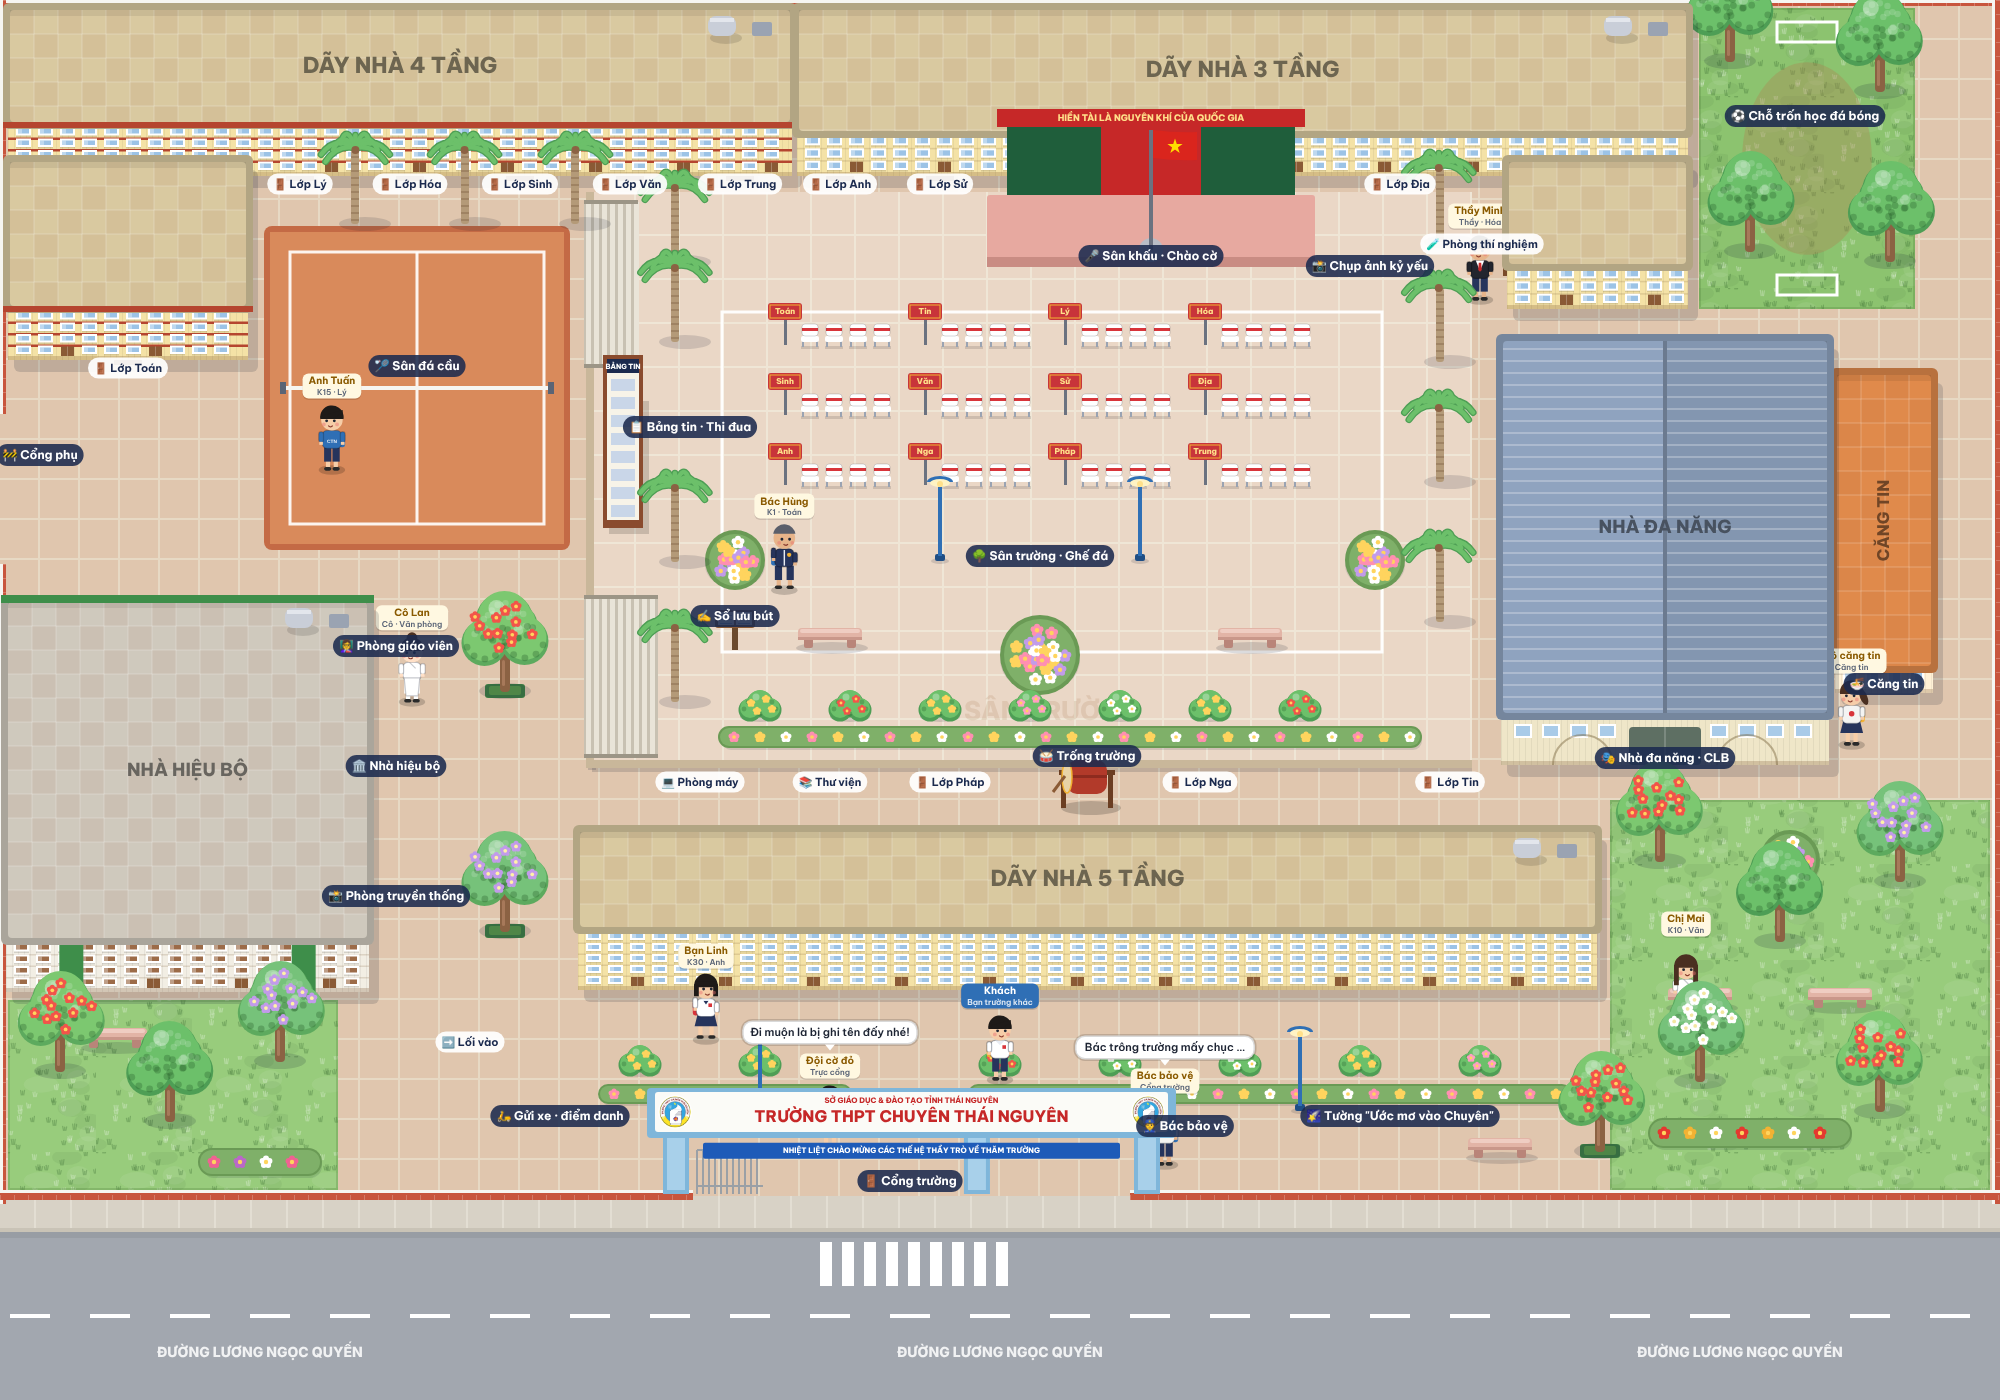
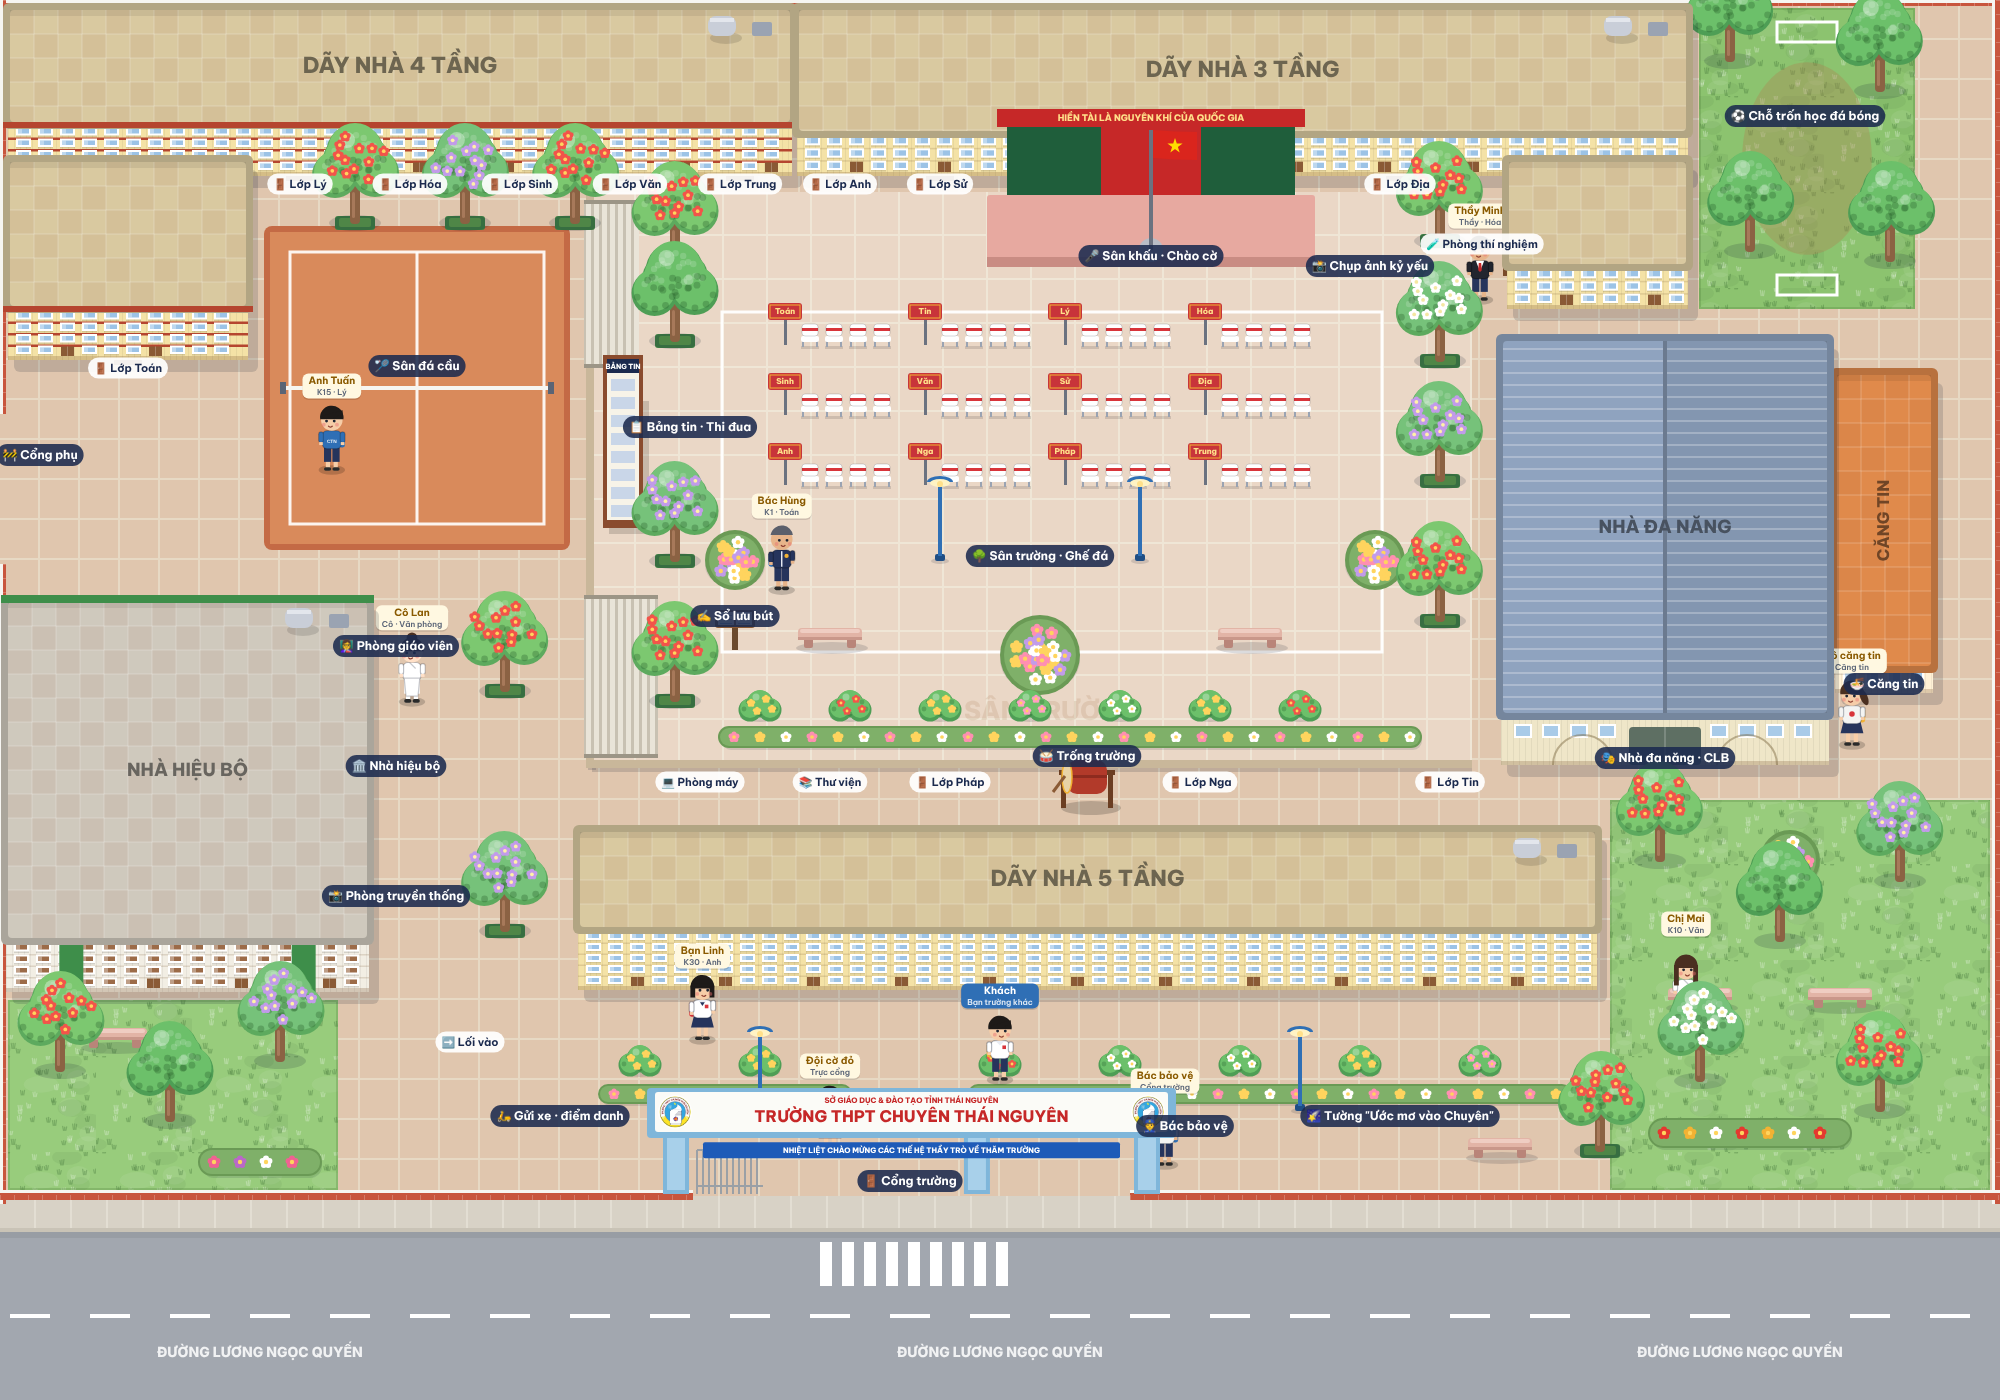
Cây trên sân trường vẽ giống cây trong vườn
Thay hàng cau vua trước dãy 4 tầng và hai bên sân trường bằng cây tán tròn
(phượng, bằng lăng, hoa sữa) có bồn gốc cây; cập nhật sơ đồ và tài liệu.

Claude-Session: https://claude.ai/code/session_01SVf8kGeQ6qEuhtfZz2rge2

diff --git a/public/js/campus.js b/public/js/campus.js
@@ -105,18 +105,19 @@ export const HOTSPOTS = [
   ...CLASS_DOORS.map((d) => ({ id: 'lop-' + d.lop, x: d.x, y: d.y, icon: '🚪', label: 'Lớp ' + d.lop, panel: 'enterClass', lop: d.lop, small: true })),
 ];
 
-// Cây cối (gốc cây là vật cản nhỏ). kind: palm (cau vua), bonsai (chậu cảnh), tree (bàng, xà cừ)
+// Cây cối (gốc cây là vật cản nhỏ). kind: tree (cây tán tròn), bonsai (bụi hoa), palm (cau vua – còn hỗ trợ vẽ)
+// bloom: cây đang ra hoa – phượng đỏ, bằng lăng tím, hoa sữa trắng; planter: có bồn quanh gốc (trên nền gạch)
 const trees = [];
-// Hàng cau vua trước dãy 4 tầng và dọc mép trái sân trường
-// cau vua đứng xen giữa các cửa lớp
-for (const x of [355, 465, 575]) trees.push({ x, y: 222, kind: 'palm' });
-for (const y of [260, 340, 560, 700]) trees.push({ x: 675, y, kind: 'palm' });
-// Cau vua phía phải sân trường
-for (const y of [240, 360, 480, 620]) trees.push({ x: 1440, y, kind: 'palm' });
+const yardTree = (x, y, bloom) => trees.push({ x, y, kind: 'tree', bloom, planter: true });
+// Hàng cây trước dãy 4 tầng, đứng xen giữa các cửa lớp
+for (const [x, bloom] of [[355, 'phuong'], [465, 'banglang'], [575, 'phuong']]) yardTree(x, 222, bloom);
+// Hàng cây dọc mép trái sân trường
+for (const [y, bloom] of [[260, 'phuong'], [340], [560, 'banglang'], [700, 'phuong']]) yardTree(675, y, bloom);
+// Hàng cây phía phải sân trường
+for (const [y, bloom] of [[240, 'phuong'], [360, 'hoasua'], [480, 'banglang'], [620, 'phuong']]) yardTree(1440, y, bloom);
 // Hàng chậu cảnh dưới sân
 for (let x = 760; x <= 1380; x += 90) trees.push({ x, y: 715, kind: 'bonsai' });
 // Cây to quanh cổng, góc vườn
-// bloom: cây đang ra hoa – phượng đỏ, bằng lăng tím, hoa sữa trắng
 for (const [x, y, bloom] of [[60, 1070, 'phuong'], [170, 1120], [280, 1060, 'banglang'], [1660, 860, 'phuong'], [1780, 940], [1900, 880, 'banglang'], [1700, 1080, 'hoasua'], [1880, 1110, 'phuong'], [1600, 1150, 'phuong']]) trees.push({ x, y, kind: 'tree', bloom, planter: x < 1610 && y > 1000 && x > 1500 });
 // Cây có bồn dọc lối vào (trên nền gạch)
 trees.push({ x: 505, y: 690, kind: 'tree', bloom: 'phuong', planter: true }, { x: 505, y: 930, kind: 'tree', bloom: 'banglang', planter: true });

diff --git a/README.md b/README.md
@@ -13,7 +13,7 @@ ghé lớp cũ, viết lưu bút, đăng ký họp lớp và thi đua giữa cá
 | Cổng trường (xanh, biển trắng chữ đỏ), bác bảo vệ | Giới thiệu, gửi xe điểm danh mỗi ngày nhận 20k ăn vặt |
 | **Nhà hiệu bộ** (4 tầng, sơn xanh trắng) | Lịch họp lớp (tạo, đăng ký), tri ân thầy cô, phòng giáo viên, phòng truyền thống |
 | **Dãy nhà 5 tầng** (ngay sau cổng) | Lớp chuyên (phải → trái) Tin, Nga, Pháp – cửa ở mặt trong, quay vào sân trường |
-| **Dãy nhà 4 tầng** (chữ L, hàng cau vua) | Lớp chuyên (trái → phải) Toán, Lý, Hóa, Sinh, Văn, Trung |
+| **Dãy nhà 4 tầng** (chữ L, hàng cây phượng – bằng lăng) | Lớp chuyên (trái → phải) Toán, Lý, Hóa, Sinh, Văn, Trung |
 | **Dãy nhà 3 tầng** | Lớp chuyên (trái → phải) Anh, Sử, Địa |
 | Trong mỗi lớp | Vào hẳn trong phòng: bảng đen (đố vui), bàn giáo viên (sổ đầu bài), tủ sách (lưu bút theo khóa), 24 chỗ ngồi; thấy bạn đang ở cùng lớp |
 | Sân trường (cao, có bậc thang) | Sân khấu có cột cờ ở giữa, bảng tin thi đua theo khóa/lớp, ghế đá; trống trường giữa dãy 5 tầng (bấm để đánh trống) |
